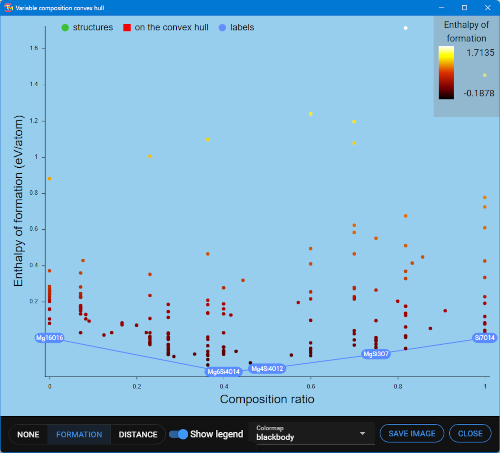
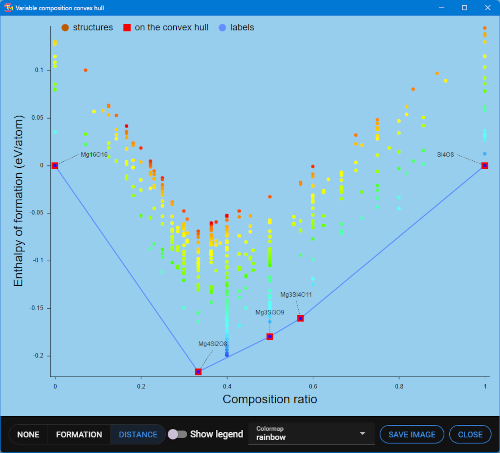
Changed labels to annotations for the structures on the vertices.

diff --git a/src/components/ComponentsConvexHull.vue b/src/components/ComponentsConvexHull.vue
@@ -22,16 +22,17 @@
  * You should have received a copy of the GNU General Public License
  * along with STMng. If not, see https://gnu.org/licenses/ .
  */
-import {computed, onUnmounted, ref, watch} from "vue";
+import {computed, onUnmounted, ref, shallowRef, watch} from "vue";
 import log from "electron-log";
 import {theme} from "@/services/ReceiveTheme";
 import {handleSpecialKeys} from "@/services/HandleSpecialKeys";
 import {closeWindow, requestData, sendToNode} from "@/services/RoutesClient";
 import type {CtrlParams} from "@/types";
 
-import {Scatter, BulletShape, XYLabels, type BulletLegendItemInterface} from "@unovis/ts";
+import {Scatter, BulletShape, XYLabels, type BulletLegendItemInterface,
+        type AnnotationItem, type LengthUnit} from "@unovis/ts";
 import {VisXYContainer, VisScatter, VisAxis, VisLine, VisTooltip,
-        VisBulletLegend, VisXYLabels} from "@unovis/vue";
+        VisBulletLegend, VisAnnotations} from "@unovis/vue";
 import {Lut} from "three/addons/math/Lut.js";
 
 import SelectColormap from "@/widgets/SelectColormap.vue";
@@ -234,24 +235,10 @@ const toggleItem = (item: BulletLegendItemInterface, which: number): void => {
 };
 
 /**
- * Accessor for the label at the extreme of the range
+ * Accessor for the point color
  *
  * @param d - One data record
  */
-const lp = (d: DataRecord): string => {
-
-    // switch(d.parts) {
-    //     case "1-0-0":
-    //     case "0-1-0":
-    //     case "0-0-1":
-    //     case "1-0":
-    //     case "0-1":
-            return d.formula!.replaceAll(/<.?sub>/gu, "");
-    //     default:
-    //         return "";
-    // }
-};
-
 const cp = (d: DataRecord): string => d.color!;
 
 /**
@@ -337,6 +324,94 @@ const vc = computed(() => {
 const legendTitle = computed(() => ((pointColoring.value === "distance") ?
                                         "Distance" : "Enthalpy of formation"));
 
+// eslint-disable-next-line vue/prefer-use-template-ref, unicorn/no-null
+const scatter = shallowRef<{component?: Scatter<DataRecord>} | null>(null);
+
+const annotationLabels = computed<AnnotationItem[]>(() => {
+
+    const component = scatter.value?.component;
+    if(!component) return [];
+
+    let xmin = Number.POSITIVE_INFINITY;
+    let xmax = Number.NEGATIVE_INFINITY;
+    let ymin = Number.POSITIVE_INFINITY;
+    let ymax = Number.NEGATIVE_INFINITY;
+    for(const v of points.value) {
+        const x = v.x ?? 0;
+        const y = v.y ?? 0;
+        if(x > xmax) xmax = x;
+        if(x < xmin) xmin = x;
+        if(y > ymax) ymax = y;
+        if(y < ymin) ymin = y;
+    }
+
+    const count = line.value.length;
+    const out = Array<AnnotationItem>(count);
+    const m = 0.1;
+
+    for(let i=0; i < count; ++i) {
+
+        const x = (line.value[i].x!-xmin)/(xmax-xmin);
+        const y = 1-((line.value[i].y!-ymin)/(ymax-ymin));
+        const xl: LengthUnit = `${Math.round(100*(x*(1-2*m)+m))}%`;
+        const yl: LengthUnit = `${Math.round(100*y*(1-m))}%`;
+        const content = (line.value[i].formula ?? "unknown")
+                                    .replaceAll(/<\/?sub>/gu, "")
+                                    .replaceAll(/<\/?sup>/gu, "");
+        out[i] = {
+            x: xl,
+            y: yl,
+            textAlign: "center",
+            content,
+            subject: {
+                x: () => component.xScale(line.value[i].x!),
+                y: () => component.yScale(line.value[i].y!),
+                connectorLineStrokeDasharray: "2 2",
+            }
+        };
+    }
+
+    return out;
+});
+
+
+// eslint-disable-next-line vue/prefer-use-template-ref, unicorn/no-null
+const scatter3 = shallowRef<{component?: Scatter<DataRecord>} | null>(null);
+const annotationLabels3 = computed<AnnotationItem[]>(() => {
+
+    const component = scatter3.value?.component;
+    if(!component) return [];
+
+    const count = vertex.value.length;
+    const out = Array<AnnotationItem>(count);
+    const m = 0.1;
+
+    for(let i = 0; i < count; ++i) {
+
+        const x = component.xScale(vertex.value[i].x!);
+        const y = component.yScale(vertex.value[i].y!);
+        const content = (vertex.value[i].formula ?? "unknown")
+                            .replaceAll(/<\/?sub>/gu, "")
+                            .replaceAll(/<\/?sup>/gu, "");
+        const m1 = ((-5.333*y + 4.619)*y + 1)*m; // so m1 goes from m to 2m to m
+        const xl: LengthUnit = `${Math.round(100*(x*(1-2*m1)+m1))}%`;
+        const yl: LengthUnit = `${Math.round(100*((1-m1+(y/0.866)*(2*m1-1))))}%`;
+
+        out[i] = {
+            x: xl,
+            y: yl,
+            textAlign: "center",
+            content,
+            subject: {
+                x: () => component.xScale(vertex.value[i].x!),
+                y: () => component.yScale(vertex.value[i].y!),
+                connectorLineStrokeDasharray: "2 2",
+            }
+        };
+    }
+
+    return out;
+});
 </script>
 
 
@@ -348,16 +423,14 @@ const legendTitle = computed(() => ((pointColoring.value === "distance") ?
     <VisLine :data="line" :x="xp" :y="yp" curveType="linear"/>
     <VisScatter v-if="showStructures" :key="forceUpdate" :data="points" :x="xp" :y="yp"
                 :color="cp" :size="7" cursor="pointer"/>
-    <VisScatter v-if="showOnLine" :data="line" :x="xp" :y="yp"
-                color="#FF0000" :size="15" cursor="pointer" shape="square"/>
+    <VisScatter ref="scatter" :data="line" :x="xp" :y="yp"
+                color="#FF0000" :size="showOnLine ? 15 : 0" cursor="pointer" shape="square"/>
     <VisAxis type="x" :gridLine="false" label="Composition ratio"
             labelColor="black" :labelFontSize="24" tickTextColor="black"/>
     <VisAxis type="y" :gridLine="false" label="Enthalpy of formation (eV/atom)"
             labelColor="black" :fullSize="true" :labelFontSize="24" tickTextColor="black"/>
     <VisTooltip :triggers :followCursor="false" />
-    <VisXYLabels v-if="showFormula" :data="line" :x="xp" :y="yp" :label="lp"
-                 color="black" backgroundColor="#598DFF70"
-                 xPositioning="data_space" yPositioning="data_space"/>
+    <VisAnnotations v-if="showFormula" :items="annotationLabels" />
   </VisXYContainer>
   <VisXYContainer v-else-if="dimension===3"
                   :margin="{right: 20, top: 20, left: 20, bottom: 20}"
@@ -366,12 +439,10 @@ const legendTitle = computed(() => ((pointColoring.value === "distance") ?
     <VisLine :data="line" :x="xp" :y="yp" curveType="linear" :lineWidth="3"/>
     <VisScatter v-if="showStructures" :key="forceUpdate" :data="points" :x="xp" :y="yp"
                 :color="cp" :size="9" cursor="pointer"/>
-    <VisScatter v-if="showOnLine" :data="vertex" :x="xp" :y="yp"
-                color="#FF0000" :size="15" cursor="pointer" shape="square"/>
+    <VisScatter ref="scatter3" :data="vertex" :x="xp" :y="yp"
+                color="#FF0000" :size="showOnLine ? 15 : 0" cursor="pointer" shape="square"/>
     <VisTooltip :triggers :followCursor="false" />
-    <VisXYLabels v-if="showFormula" :data="vertex" :x="xp" :y="yp" :label="lp"
-                 color="black" backgroundColor="#598DFF70"
-                 xPositioning="data_space" yPositioning="data_space"/>
+    <VisAnnotations v-if="showFormula" :items="annotationLabels3" />
   </VisXYContainer>
   <v-alert v-else
         title="Not implemented"

diff --git a/public/doc/secondary/components-hull.html b/public/doc/secondary/components-hull.html
@@ -73,8 +73,7 @@
 
 <img src="./hull2d.png" width="500" height="453" alt="Convex hull in 2D">
 <p>The chart shows a point for each structure after removing duplicates. The composition ratio is: <b>component<sub>2</sub>/(component<sub>1</sub>+component<sub>2</sub>)</b></p>
-<p>The line is the lower part of the convex hull enclosing the points. The <span style="background-color: red" class="color-word">red</span> squares are structures that lies exactly on the convex hull line. In the image these points are overlaid by the corresponding formula.</p>
-<p>Sometimes the label stacking order is incorrect. To put a label in foreground, simply hide it on the top-left menu and make visible again.</p>
+<p>The line is the lower part of the convex hull enclosing the points. The <span style="background-color: red" class="color-word">red</span> squares are structures that lies exactly on the convex hull line.</p>
 <p>Hovering a point shows a popup with the following information:</p>
 <table>
   <tr><td class="c1">Step</td><td>Step of the structure in the loaded sequence</td></tr>
@@ -88,7 +87,6 @@
 <p>The chart shows a point for each structure after removing duplicates. On the corners of the triangles are the three end-members components. The enthalpy of formation lies on the axis perpendicular to the image.</p>
 <p>The <span style="background-color: red" class="color-word">red</span> squares are structures that lies exactly on the convex hull surface. This surface lies below the visualized triangle and is the bottom half of the convex hull enclosing the points.</p>
 <p>Clicking on the top-left legend “labels” entry, show the formula corresponding to these points.</p>
-<p>Sometimes the label stacking order is incorrect. To put a label in foreground, simply hide it on the top-left menu and make visible again.</p>
 <p>Hovering a point shows a popup with the following information (the image shows an example):</p>
 <table>
   <tr><td class="c1">Step</td><td>Step of the structure in the loaded sequence</td></tr>
